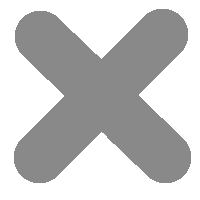
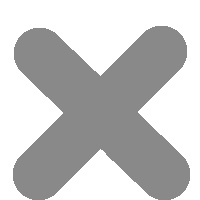
Good looking checkboxes for dog cards

Changed region(s): [[0.06, 0.03, 0.96, 1.0]]

diff --git a/dogcard.cpp b/dogcard.cpp
@@ -120,9 +120,9 @@ DogCard::DogCard(QWidget *parent, QString id_dog, QString name, QString sex, QSt
     connect(detailsButton, SIGNAL(clicked()), this, SLOT(SelectThis()));
 
     // Only shown if selected
-    sterilizedBox = new TriStateCheckBox((sex == "Mâle") ? "Castré" : "Stérilisée", this);
-    compatDogBox = new TriStateCheckBox("Compatible chien", this);
-    compatCatBox = new TriStateCheckBox("Compatible chat", this);
+    sterilizedBox = new TriStateCheckBox((sex == "Mâle") ? "Castration" : "Stérilisation", this);
+    compatDogBox = new TriStateCheckBox("Compatibilité chien", this);
+    compatCatBox = new TriStateCheckBox("Compatibilité chat", this);
     vetLabel = new QLabel("C");
     vetLabel->setSizePolicy(QSizePolicy::Expanding, QSizePolicy::Preferred);
     vetLabel->setObjectName("vetLabel" + id_dog);
@@ -146,12 +146,8 @@ void DogCard::resizeEvent(QResizeEvent *event){
     QSize parentSize = qobject_cast<QWidget*>(parent())->size();
     if(selected){
         layout->setSpacing(height() / 100);
-        //layout->setContentsMargins(width() / 10, height() / 10, width() / 10, height() / 10);
 
-        if(maximumWidth() <= width() || maximumHeight() <= height())
-            setMaximumSize(size() + QSize(5, 5));
-        else
-            setMaximumSize(QWIDGETSIZE_MAX, QWIDGETSIZE_MAX);
+        setMaximumSize(QWIDGETSIZE_MAX, QWIDGETSIZE_MAX);
         factor = 0.7;
     }
     else{
@@ -166,8 +162,12 @@ void DogCard::resizeEvent(QResizeEvent *event){
                                  "font-weight:bold;");
         }
 
-        else if (qobject_cast<QLabel*>(c) || qobject_cast<TriStateCheckBox*>(c)){
+        else if (qobject_cast<QLabel*>(c)){
             c->setStyleSheet("font-size:" + QString::number(factor * 0.02 * width()) + "pt;");
+        }
+
+        else if (qobject_cast<TriStateCheckBox*>(c)){
+            c->setStyleSheet("font-size:" + QString::number(factor * 0.015 * width()) + "pt;");
         }
     }
 
@@ -182,9 +182,10 @@ void DogCard::SelectThis(){
     selected = true;
 
     layout->removeWidget(detailsButton);
-    layout->addWidget(detailsButton, 9, 2);
+    layout->addWidget(detailsButton, 0, 2);
     disconnect(detailsButton, SIGNAL(clicked()), 0, 0);
     connect(detailsButton, SIGNAL(clicked()), mainWindow, SLOT(UnselectDogCard()));
+    detailsButton->setIcon(QIcon("media/cross.png"));
 
     QSqlQuery query;
     query.exec("SELECT chip, birth, sterilized, compat_dog, compat_cat "

diff --git a/dogcard.h b/dogcard.h
@@ -7,7 +7,7 @@
 #include <QGridLayout>
 #include <QDate>
 #include <QSqlQuery>
-#include <QSqlError>
+#include <QRegularExpression>
 
 #include "tristatecheckbox.h"
 
